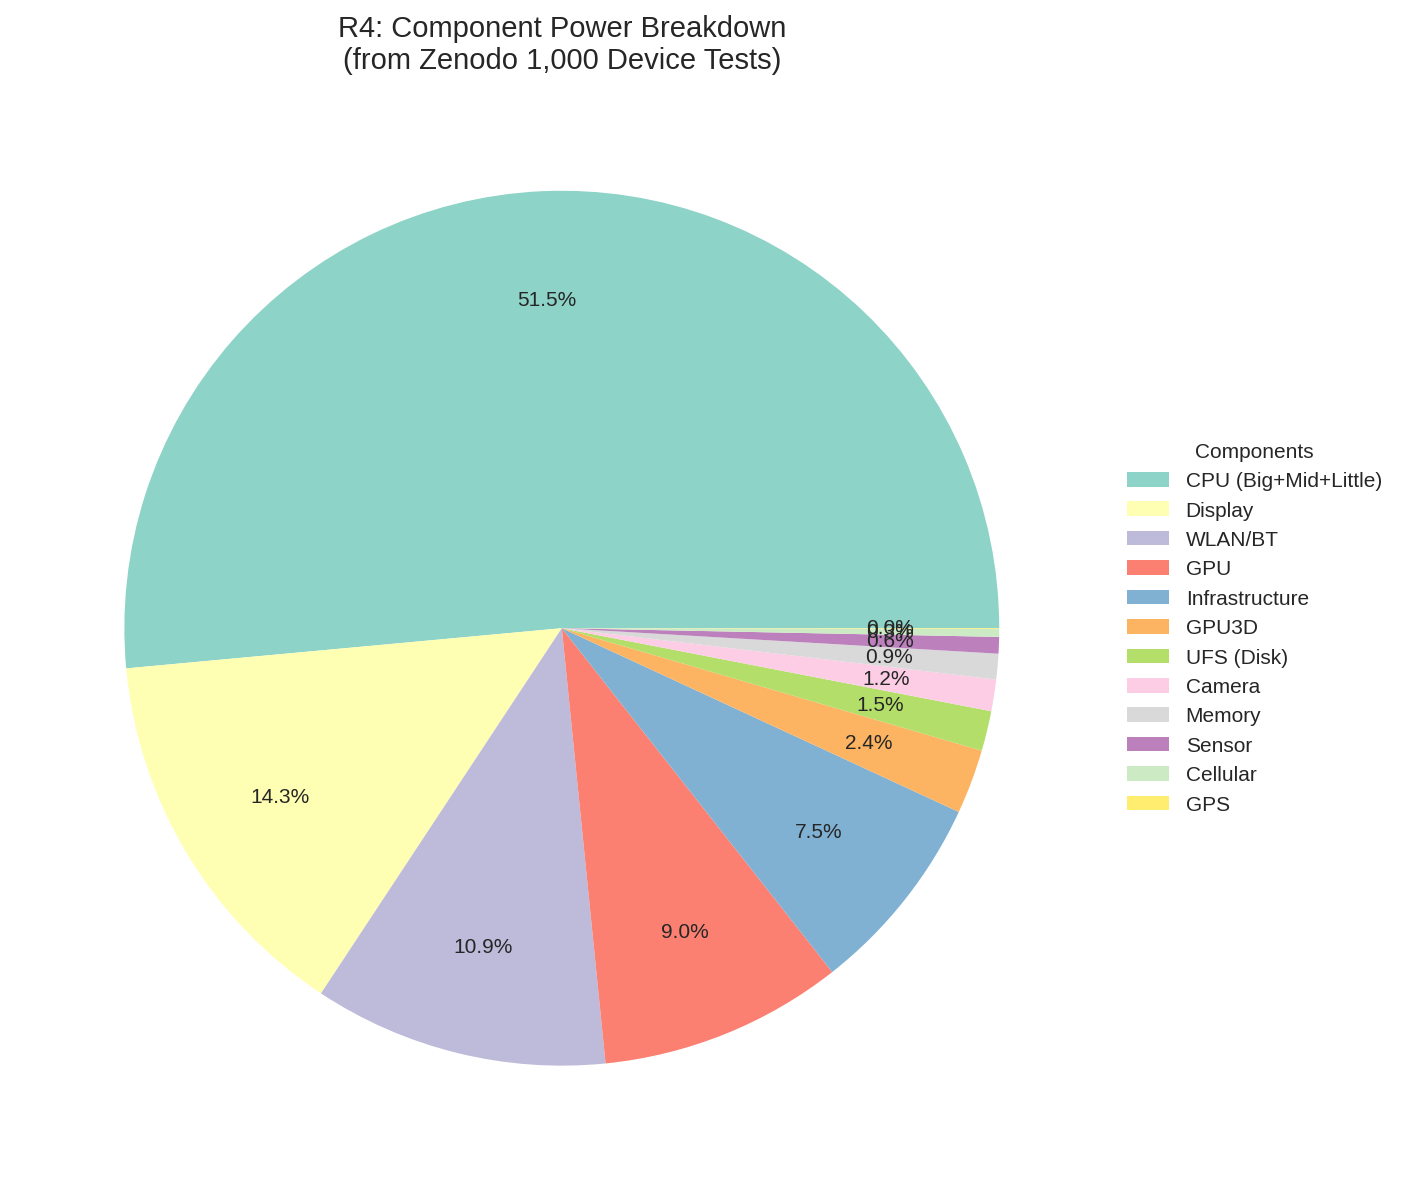
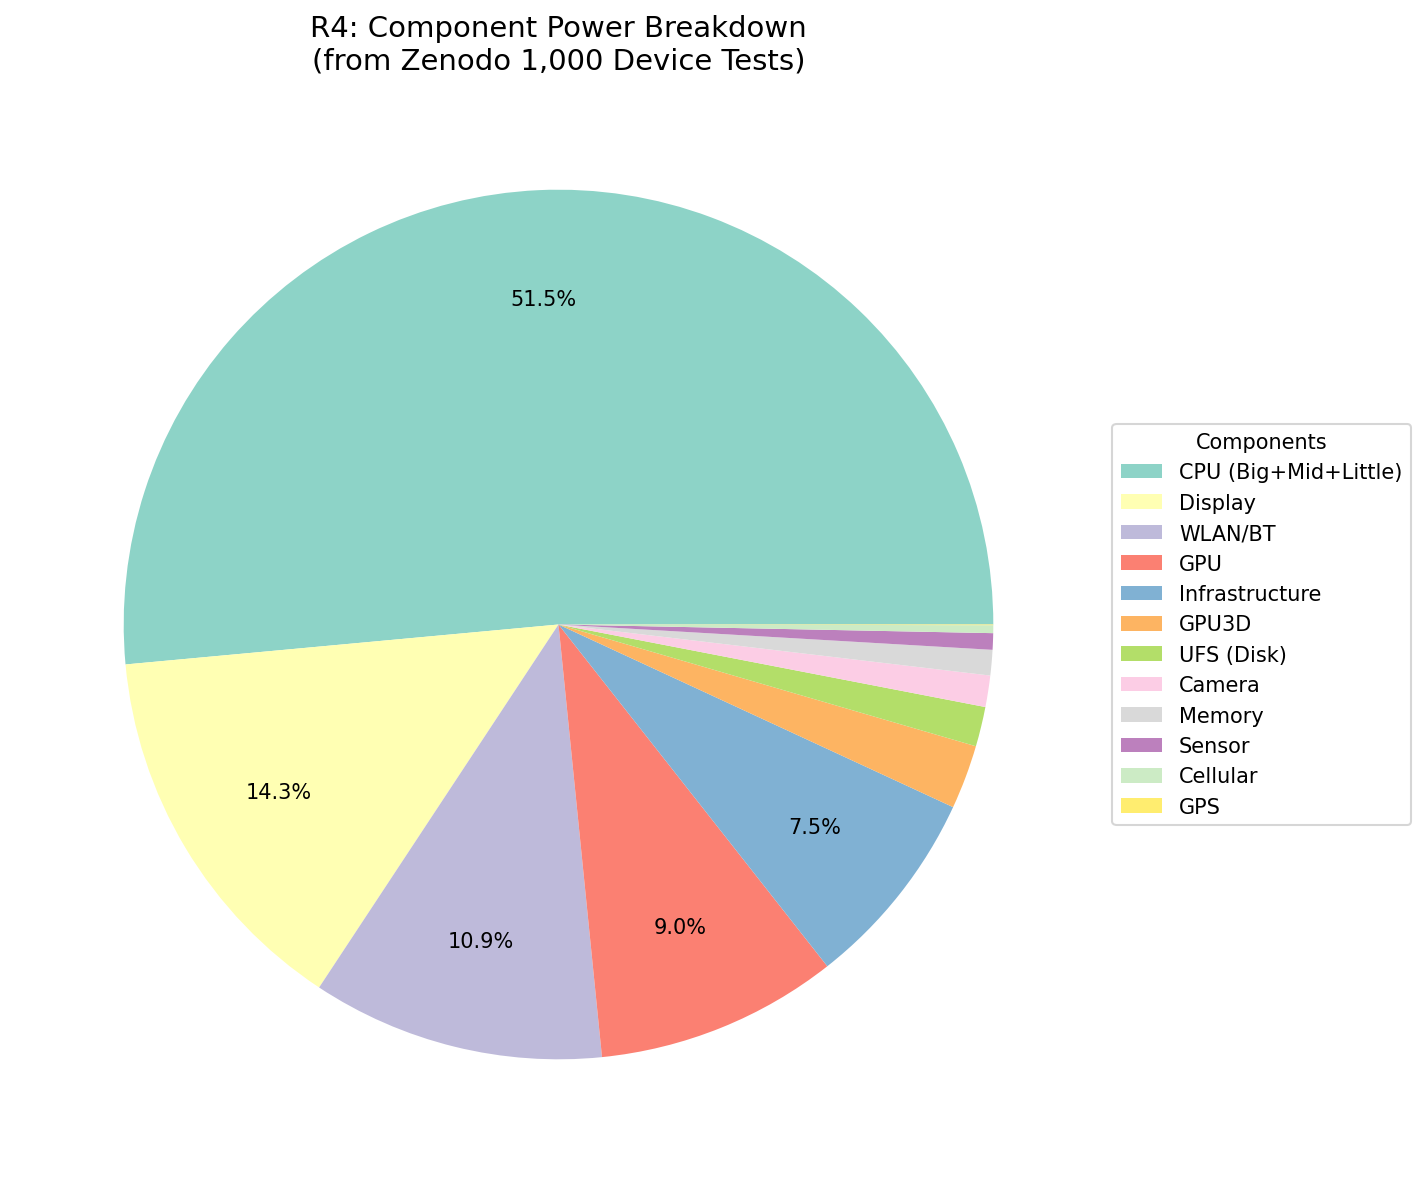
Fix overlapping numbers on pie charts in section 6.3

diff --git a/zenodo_data_analyzer.py b/zenodo_data_analyzer.py
@@ -527,10 +527,19 @@ class ZenodoDataAnalyzer:
         # Explode the largest slice
         explode = [0.05 if i == 0 else 0 for i in range(len(labels))]
         
+        # Custom autopct function to hide labels for small slices (< 3%) to prevent overlap
+        def make_autopct(values):
+            def autopct(pct):
+                return f'{pct:.1f}%' if pct >= 3 else ''
+            return autopct
+        
         wedges, texts, autotexts = ax1.pie(
-            sizes, labels=labels, autopct='%1.1f%%', startangle=90,
+            sizes, labels=None, autopct=make_autopct(sizes), startangle=90,
             colors=colors, explode=explode, pctdistance=0.75
         )
+        # Use legend instead of labels to avoid overlap
+        ax1.legend(wedges, labels, title="Components", loc="center left",
+                   bbox_to_anchor=(-0.3, 0.5), fontsize=8)
         ax1.set_title('Component Power Breakdown (% of Total)')
         
         # Bar chart

diff --git a/run_mcm_analysis.py b/run_mcm_analysis.py
@@ -726,7 +726,13 @@ def generate_figures(model: ZenodoBasedSOCModel, r2_results: dict,
     
     colors = plt.cm.Set3(np.linspace(0, 1, len(labels)))
     
-    wedges, texts, autotexts = ax.pie(sizes, labels=None, autopct='%1.1f%%',
+    # Custom autopct function to hide labels for small slices (< 3%) to prevent overlap
+    def make_autopct(values):
+        def autopct(pct):
+            return f'{pct:.1f}%' if pct >= 3 else ''
+        return autopct
+    
+    wedges, texts, autotexts = ax.pie(sizes, labels=None, autopct=make_autopct(sizes),
                                        colors=colors, pctdistance=0.75)
     
     ax.legend(wedges, labels, title="Components", loc="center left", 
